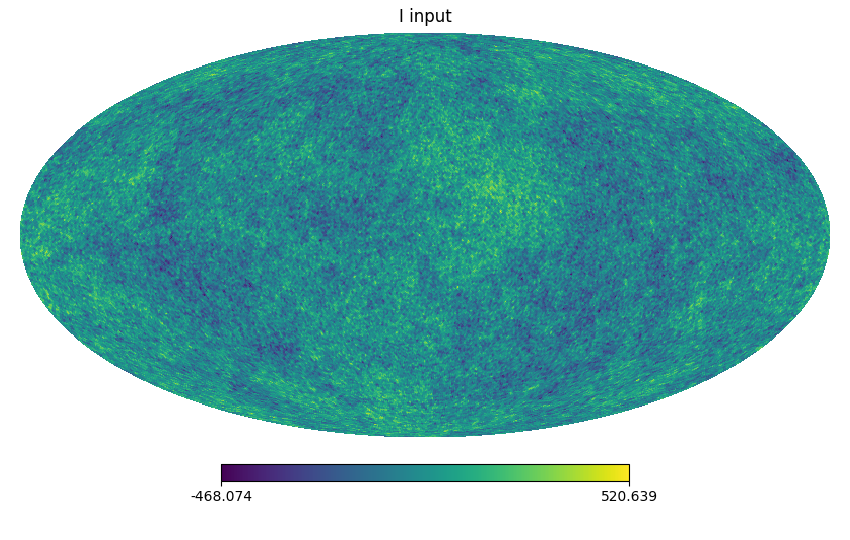
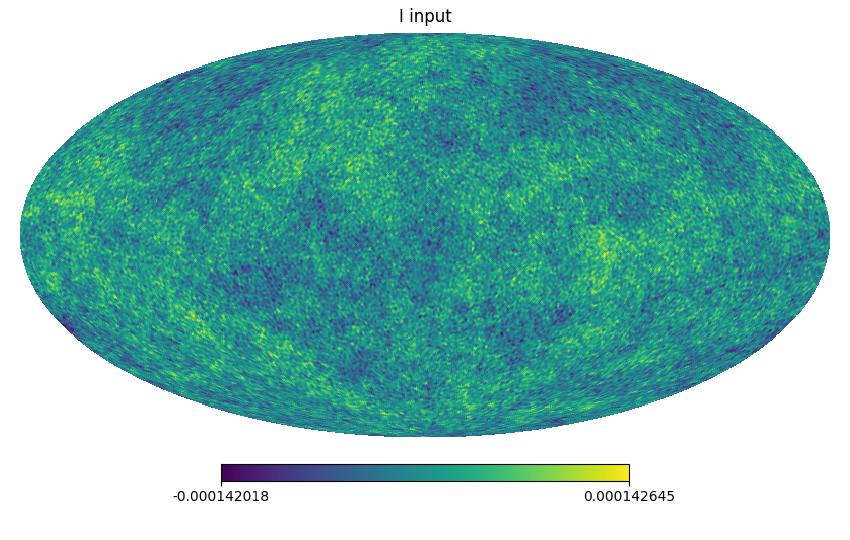
playing around

diff --git a/beamconv/pipeline.py b/beamconv/pipeline.py
@@ -5,6 +5,8 @@ import numpy as np
 import healpy as hp
 import scipy.sparse
 from scipy.sparse.linalg import inv
+from classy import Class
+from math import pi
 
 # NaMaster
 import pymaster as nmt
@@ -54,21 +56,42 @@ first_det = 4
 nside = 128
 lmax = 2*nside
 
-sky = pysm3.Sky(nside=nside, preset_strings=["c1"], output_unit="uK_CMB")
-
+#sky = pysm3.Sky(nside=nside, preset_strings=["c1"], output_unit="uK_CMB")
+#
 nu = 140 # since I'll be using the M1-140 channel
+#
+#map_FG = sky.get_emission(nu * u.GHz)
+#alm_FG = hp.map2alm(map_FG, lmax=lmax)
 
-map_FG = sky.get_emission(nu * u.GHz)
-alm_FG = hp.map2alm(map_FG, lmax=lmax)
+# create instance of the class " Class "
+LambdaCDM = Class()
+# pass input p a r a m e t e r s
+LambdaCDM.set({'omega_b':0.0223828,'omega_cdm':0.1201075,'h':0.67810,'A_s':2.100549e-09,'n_s':0.9660499,'tau_reio':0.05430842})
+LambdaCDM.set({'output':'tCl,pCl,lCl,mPk','lensing':'yes','P_k_max_1/Mpc':3.0})
+# run class
+LambdaCDM.compute()
+# get all C_l output
+cls = LambdaCDM.lensed_cl(lmax)
 
-Imin = min(map_FG[0]).value
-Imax = max(map_FG[0]).value
+ll = cls['ell']
+clTT = cls['tt']
+clEE = cls['ee']
+clBB = cls['bb']
+clTE = cls['te']
+clEB = np.zeros(nside*2+1)
+clTB = np.zeros(nside*2+1)
 
-Qmin = min(map_FG[1]).value
-Qmax = max(map_FG[1]).value
+map_FG = hp.sphtfunc.synfast([clTT,clEE,clBB,clTE,clEB,clTB], nside, new='True')
+alm_FG = hp.sphtfunc.synalm([clTT,clEE,clBB,clTE,clEB,clTB], nside, new='True')
 
-Umin = min(map_FG[2]).value
-Umax = max(map_FG[2]).value
+Imin = min(map_FG[0])#.value
+Imax = max(map_FG[0])#.value
+
+Qmin = min(map_FG[1])#.value
+Qmax = max(map_FG[1])#.value
+
+Umin = min(map_FG[2])#.value
+Umax = max(map_FG[2])#.value
 
 hp.visufunc.mollview(map_FG[0],title='I input', min=Imin, max=Imax)
 plt.savefig('I-1.png')
@@ -279,14 +302,14 @@ beam_opts = dict(lmax=lmax,
                  btype='Gaussian',
                  fwhm=fwhm,          # gaussian co-pol beam, so only specify FWHM (arcmin)
                  #hwp_mueller=mueller_140GHz,
-                 #hwp_mueller=np.diag([1,1,-1,-1]),
-                 hwp_mueller=np.diag([1,1,1,1]),
+                 hwp_mueller=np.diag([1,1,-1,-1]),
+                 #hwp_mueller=np.diag([1,1,1,1]),
                  quats=quats
                 )
 
 # defining HWP frequency
-#ss.set_hwp_mod(mode='continuous', freq=88/60)
-ss.set_hwp_mod(mode='continuous', freq=0)
+ss.set_hwp_mod(mode='continuous', freq=88/60)
+#ss.set_hwp_mod(mode='continuous', freq=0)
 
 # creating the focal plane
 ss.input_focal_plane(azs, els, polangs, deads, combine=True, scatter=False, **beam_opts)
@@ -348,8 +371,8 @@ plt.savefig('mask.png')
 plt.close()
 
 # Read healpix maps and initialize a spin-0 and spin-2 field
-f_0 = nmt.NmtField(mask_Sm, [maps[0]])
-f_2 = nmt.NmtField(mask_Sm, [maps[1],maps[2]])
+f_0 = nmt.NmtField(mask_Sm, [map_FG[0]])
+f_2 = nmt.NmtField(mask_Sm, [map_FG[1],map_FG[2]])
 
 # Initialize binning scheme with 4 ells per bandpower
 b = nmt.NmtBin.from_nside_linear(nside, 4)
@@ -384,60 +407,80 @@ cl_22 = nmt.compute_full_master(f_2, f_2, b)
 # EB: cl_22[1]
 # TB: cl_02[1]
 
-n = 4
-colors = pl.cm.viridis(np.linspace(0,1,n))
-
 # Plot results
 ell = b.get_effective_ells()
 ell_arr = ell[(ell <= lmax)] # it was going up to 3*nside!
 
-print('effective ells:')
-print(ell_arr)
+#plt.xlabel('$\\ell$', fontsize=16)
+#plt.ylabel('$C_\\ell$', fontsize=16)
 
-plt.plot(ell_arr, cl_input_00[0][(ell <= lmax)], color=colors[0])
-plt.plot(ell_arr, cl_00[0][(ell <= lmax)], color='white', linestyle='dashed', label='TT')
-plt.plot(ell_arr, np.fabs(cl_input_02[0][(ell <= lmax)]), color=colors[1])
-plt.plot(ell_arr, np.fabs(cl_02[0][(ell <= lmax)]), color='white', linestyle='dashed', label='TE')
-plt.plot(ell_arr, cl_input_22[0][(ell <= lmax)], color=colors[2])
-plt.plot(ell_arr, cl_22[0][(ell <= lmax)], color='white', linestyle='dashed', label='EE')
-plt.plot(ell_arr, cl_input_22[3][(ell <= lmax)], color=colors[3])
-plt.plot(ell_arr, cl_22[3][(ell <= lmax)], color='white', linestyle='dashed', label='BB')
-plt.loglog()
-plt.xlabel('$\\ell$', fontsize=16)
-plt.ylabel('$C_\\ell$', fontsize=16)
-plt.legend(loc='upper right', ncol=2, labelspacing=0.1)
+# beam coefficients
+beam_alm = hp.sphtfunc.gauss_beam(fwhm, lmax=lmax, pol=True)
+
+beam_T = beam_alm[:,0]
+beam_E = beam_alm[:,1]
+beam_B = beam_alm[:,2]
+
+clTT_beam = clTT*beam_T*beam_T
+clEE_beam = clEE*beam_E*beam_E
+clBB_beam = clBB*beam_B*beam_B
+clTE_beam = clTE*beam_T*beam_E
+clEB_beam = clEB*beam_E*beam_B
+clTB_beam = clTB*beam_T*beam_B
+
+fig, ((ax1, ax2), (ax3, ax4), (ax5, ax6)) = plt.subplots(3, 2, sharex='col', sharey='none')
+fig.suptitle(r'$[\ell(\ell+1)/2\pi]C_\ell$')
+fig.subplots_adjust(hspace=.5)
+fig.subplots_adjust(wspace=.5)
+#fig.xscale('log')
+#fig.yscale('linear')
+ax1.plot(ll,clTT*ll*(ll+1)/2./pi,color='gray')
+#ax1.plot(ll,clTT_beam*ll*(ll+1)/2./pi,color='chocolate')
+ax1.plot(ell_arr, ell_arr * (ell_arr + 1) * cl_input_00[0][(ell <= lmax)]/2./pi, 'k-')
+ax1.plot(ell_arr, ell_arr * (ell_arr + 1) * cl_00[0][(ell <= lmax)]/2./pi, 'r--')
+ax1.set_title('TT')
+ax2.plot(ll,clTE*ll*(ll+1)/2./pi,color='gray')
+#ax2.plot(ll,clTE_beam*ll*(ll+1)/2./pi,color='chocolate')
+ax2.plot(ell_arr, ell_arr * (ell_arr + 1) * cl_input_02[0][(ell <= lmax)]/2./pi, 'k-')
+ax2.plot(ell_arr, ell_arr * (ell_arr + 1) * cl_02[0][(ell <= lmax)]/2./pi, 'r--')
+ax2.set_title('TE')
+ax3.plot(ll,clEE*ll*(ll+1)/2./pi,color='gray')
+#ax3.plot(ll,clEE_beam*ll*(ll+1)/2./pi,color='chocolate')
+ax3.plot(ell_arr, ell_arr * (ell_arr + 1) * cl_input_22[0][(ell <= lmax)]/2./pi, 'k-')
+ax3.plot(ell_arr, ell_arr * (ell_arr + 1) * cl_22[0][(ell <= lmax)]/2./pi, 'r--')
+ax3.set_title('EE')
+ax4.plot(ll,clEB*ll*(ll+1)/2./pi,color='gray')
+#ax4.plot(ll,clEB_beam*ll*(ll+1)/2./pi,color='chocolate')
+ax4.plot(ell_arr, ell_arr * (ell_arr + 1) * cl_input_22[1][(ell <= lmax)]/2./pi, 'k-')
+ax4.plot(ell_arr, ell_arr * (ell_arr + 1) * cl_22[1][(ell <= lmax)]/2./pi, 'r--')
+ax4.set_title('EB')
+ax5.plot(ll,clBB*ll*(ll+1)/2./pi,color='gray')
+#ax5.plot(ll,clBB_beam*ll*(ll+1)/2./pi,color='chocolate')
+ax5.plot(ell_arr, ell_arr * (ell_arr + 1) * cl_input_22[3][(ell <= lmax)]/2./pi, 'k-')
+ax5.plot(ell_arr, ell_arr * (ell_arr + 1) * cl_22[3][(ell <= lmax)]/2./pi, 'r--')
+ax5.set_title('BB')
+ax6.plot(ll,clTB*ll*(ll+1)/2./pi,color='gray')
+#ax6.plot(ll,clTB_beam*ll*(ll+1)/2./pi,color='chocolate')
+ax6.plot(ell_arr, ell_arr * (ell_arr + 1) * cl_input_02[1][(ell <= lmax)]/2./pi, 'k-')
+ax6.plot(ell_arr, ell_arr * (ell_arr + 1) * cl_02[1][(ell <= lmax)]/2./pi, 'r--')
+ax6.set_title('TB')
+
+#for ax in fig.get_axes():
+#    ax.label_outer()
+    
 plt.savefig('NaMaster.png')
 plt.show()
 
-Cl_input = hp.anafast(map_FG, lmax=lmax)
-Cl_proce = hp.anafast(maps, lmax=lmax)
-ell = np.arange(lmax+1)
-
-print('ells:')
-print(ell)
-
-fig, ((ax1, ax2), (ax3, ax4), (ax5, ax6)) = plt.subplots(3, 2)
-fig.suptitle('Sharing x per column, y per row')
-ax1.plot(ell, ell * (ell + 1) * Cl_input[0])
-ax1.plot(ell, ell * (ell + 1) * Cl_proce[0])
-ax2.plot(ell, ell * (ell + 1) * Cl_input[1])
-ax2.plot(ell, ell * (ell + 1) * Cl_proce[1])
-ax3.plot(ell, ell * (ell + 1) * Cl_input[2])
-ax3.plot(ell, ell * (ell + 1) * Cl_proce[2])
-ax4.plot(ell, ell * (ell + 1) * Cl_input[3])
-ax4.plot(ell, ell * (ell + 1) * Cl_proce[3])
-ax5.plot(ell, ell * (ell + 1) * Cl_input[4])
-ax5.plot(ell, ell * (ell + 1) * Cl_proce[4])
-ax6.plot(ell, ell * (ell + 1) * Cl_input[5])
-ax6.plot(ell, ell * (ell + 1) * Cl_proce[5])
-
-for ax in fig.get_axes():
-    ax.label_outer()
-    
-plt.savefig('Cls.png')
-plt.show()
-
 quit()
+
+# plot C_l ^ TT
+plt.figure(1)
+plt.xscale('log'); plt.yscale('linear'); plt.xlim(2,2500)
+plt.xlabel(r'$\ell$')
+plt.ylabel(r'$[\ell(\ell+1)/2\pi]C_\ell^\mathrm{TT}$')
+plt.plot(ll,clTT*ll*(ll+1)/2./pi,'r-')
+plt.savefig('class.png')
+plt.show
 
 # Setting up and filling TOD (noiseless)
 psi = np.empty((ndet,nsamp))
